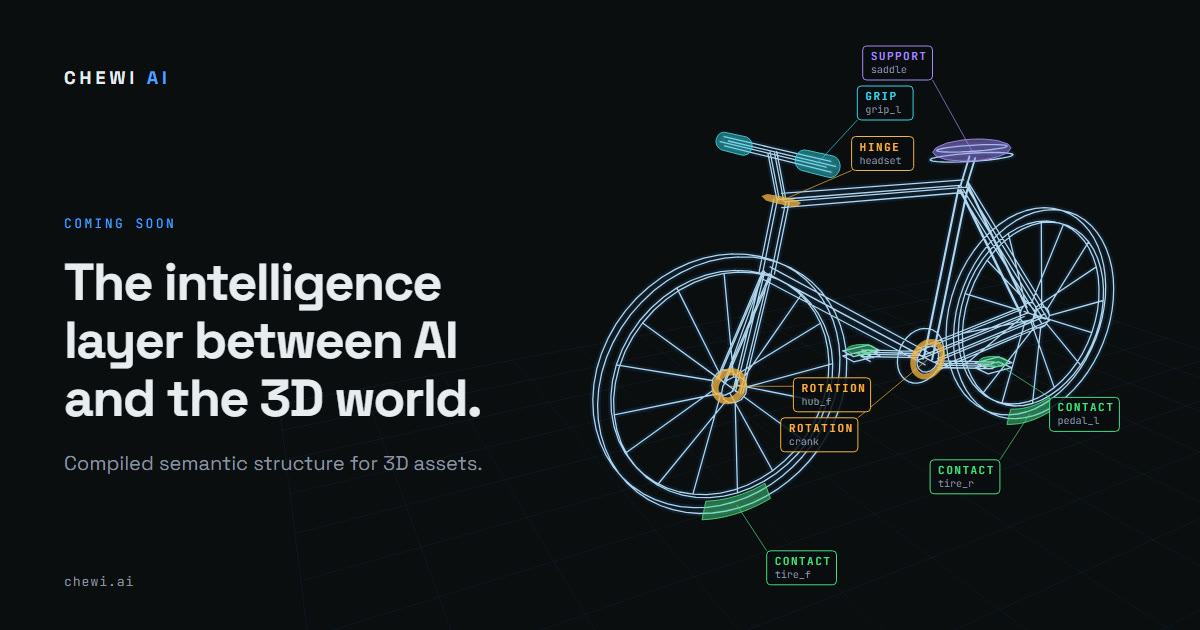
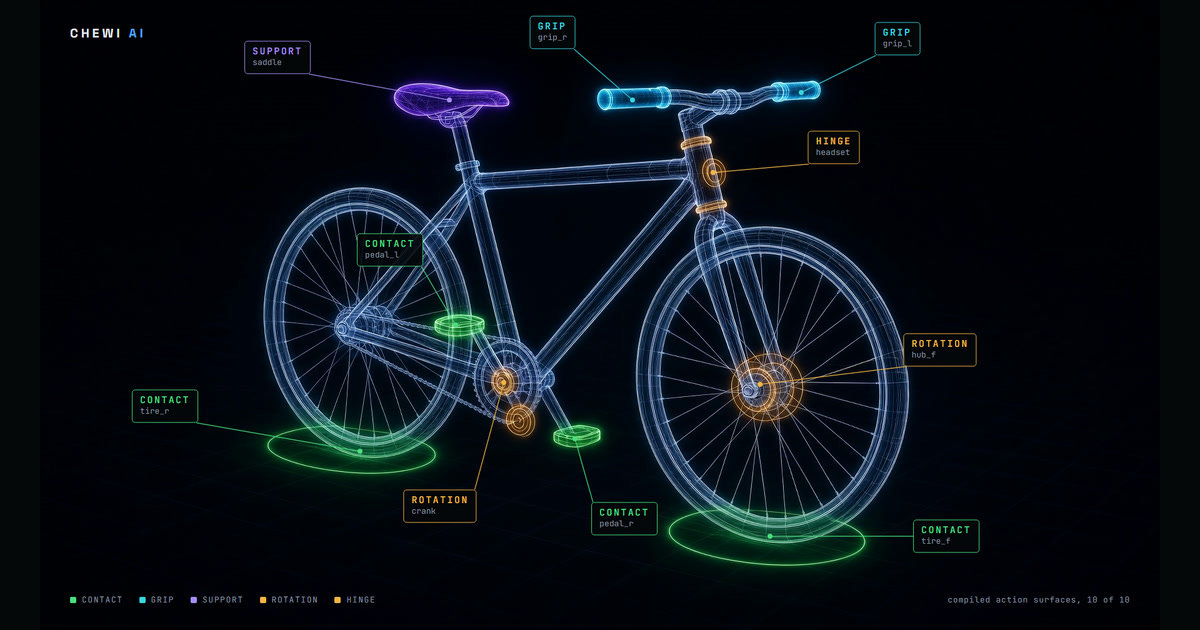
Share image: labelled Grok render at 1200x630; label overlay tool

diff --git a/tools/label-overlay.html b/tools/label-overlay.html
@@ -1,0 +1,66 @@
+<!doctype html>
+<meta charset="utf-8">
+<title>Chewi label overlay</title>
+<style>
+@font-face{font-family:'Space Grotesk';font-weight:700;src:url('../fonts/space-grotesk-latin-700.woff2') format('woff2')}
+@font-face{font-family:'JetBrains Mono';font-weight:400;src:url('../fonts/jetbrains-mono-latin.woff2') format('woff2')}
+@font-face{font-family:'JetBrains Mono';font-weight:600;src:url('../fonts/jetbrains-mono-latin-600.woff2') format('woff2')}
+html,body{margin:0;background:#05070a;width:1792px;height:1008px;overflow:hidden}
+#stage{position:relative;width:1792px;height:1008px}
+#stage img{position:absolute;inset:0;width:1792px;height:1008px;display:block}
+svg{position:absolute;inset:0;width:1792px;height:1008px}
+.tag{position:absolute;display:grid;gap:2px;padding:8px 12px 9px;font-family:'JetBrains Mono',Consolas,monospace;line-height:1.15;
+  background:rgba(5,7,10,.88);border:1px solid var(--c);border-radius:5px;transform:translate(-50%,-50%)}
+.tag b{font-size:15px;font-weight:600;letter-spacing:.16em;color:var(--c)}
+.tag i{font-style:normal;font-size:13px;color:#8b95a1}
+.wordmark{position:absolute;left:48px;top:40px;font-family:'Space Grotesk',sans-serif;font-weight:700;font-size:20px;letter-spacing:.24em;color:#e9edf1}
+.wordmark span{color:#4da3ff}
+.legend{position:absolute;left:48px;bottom:40px;display:flex;gap:26px;font-family:'JetBrains Mono',monospace;font-size:13px;letter-spacing:.12em;color:#8b95a1}
+.legend span::before{content:'';display:inline-block;width:10px;height:10px;border-radius:2px;background:var(--c);margin-right:9px;vertical-align:-1px}
+.caption{position:absolute;right:48px;bottom:40px;font-family:'JetBrains Mono',monospace;font-size:13px;letter-spacing:.06em;color:#8b95a1}
+</style>
+<div id="stage">
+  <img src="file:///C:/Users/davek/Downloads/grok-image-a7e0d4a4-aabe-4fc5-8258-5c0d662265b6.jpg" alt="">
+  <svg id="leaders" aria-hidden="true"></svg>
+  <div class="wordmark">CHEWI <span>AI</span></div>
+  <div class="legend">
+    <span style="--c:#4ade80">CONTACT</span><span style="--c:#38d6e0">GRIP</span><span style="--c:#a78bfa">SUPPORT</span><span style="--c:#f5b544">ROTATION</span><span style="--c:#f5b544">HINGE</span>
+  </div>
+  <div class="caption">compiled action surfaces, 10 of 10</div>
+</div>
+<script>
+const C = { CONTACT:'#4ade80', GRIP:'#38d6e0', SUPPORT:'#a78bfa', ROTATION:'#f5b544', HINGE:'#f5b544' };
+// [kind, id, anchorX, anchorY, tagX, tagY] in image pixels (1792x1008). The bike is seen from its right side.
+const L = [
+  ['SUPPORT','saddle',      655,160,  380, 92],
+  ['GRIP','grip_r',         948,160,  820, 52],
+  ['GRIP','grip_l',        1218,148, 1372, 62],
+  ['HINGE','headset',      1077,276, 1270,236],
+  ['ROTATION','hub_f',     1152,615, 1440,560],
+  ['ROTATION','crank',      742,612,  640,810],
+  ['CONTACT','pedal_l',     665,520,  560,400],
+  ['CONTACT','pedal_r',     856,702,  935,830],
+  ['CONTACT','tire_r',      512,722,  200,650],
+  ['CONTACT','tire_f',     1168,858, 1450,858],
+];
+const stage = document.getElementById('stage'), svg = document.getElementById('leaders');
+for (const [kind,id,ax,ay,tx,ty] of L) {
+  const t = document.createElement('div'); t.className='tag'; t.style.setProperty('--c', C[kind]);
+  t.style.left = tx+'px'; t.style.top = ty+'px'; t.innerHTML = `<b>${kind}</b><i>${id}</i>`; stage.appendChild(t);
+}
+requestAnimationFrame(() => {
+  for (const [kind,id,ax,ay,tx,ty] of L) {
+    const t = [...document.querySelectorAll('.tag')].find(e => e.querySelector('i').textContent===id);
+    const r = t.getBoundingClientRect();
+    const cx = Math.max(r.left, Math.min(ax, r.right)), cy = Math.max(r.top, Math.min(ay, r.bottom));
+    const l = document.createElementNS('http://www.w3.org/2000/svg','line');
+    l.setAttribute('x1',ax); l.setAttribute('y1',ay); l.setAttribute('x2',cx); l.setAttribute('y2',cy);
+    l.setAttribute('stroke',C[kind]); l.setAttribute('stroke-width','1.5'); l.setAttribute('stroke-opacity','0.85');
+    svg.appendChild(l);
+    const d = document.createElementNS('http://www.w3.org/2000/svg','circle');
+    d.setAttribute('cx',ax); d.setAttribute('cy',ay); d.setAttribute('r','4'); d.setAttribute('fill',C[kind]);
+    svg.appendChild(d);
+  }
+  document.documentElement.dataset.ready = '1';
+});
+</script>

diff --git a/README.md b/README.md
@@ -24,7 +24,7 @@ node js/bike.test.mjs
 - Tokens and layout: `css/site.css`.
 - Hero scene: `js/hero.js` (renderer, labels, fallbacks) and `js/bike.js` (bicycle geometry and the ten action surfaces).
 - Demo clip: `assets/contact-demo.mp4` + `assets/contact-demo-poster.jpg`. Replace both to swap the demo; keep the file names.
-- Share image: `assets/og.jpg` (1200x630).
+- Share image: `assets/og.jpg` (1200x630), made from the labelled Grok render (`tools/label-overlay.html` produces the labels). `tools/render-static.mjs` still writes an alternative `assets/og.svg`, unused.
 - Static hero for no-WebGL: `assets/hero-fallback.svg`.
 
 ## Hero interactions
